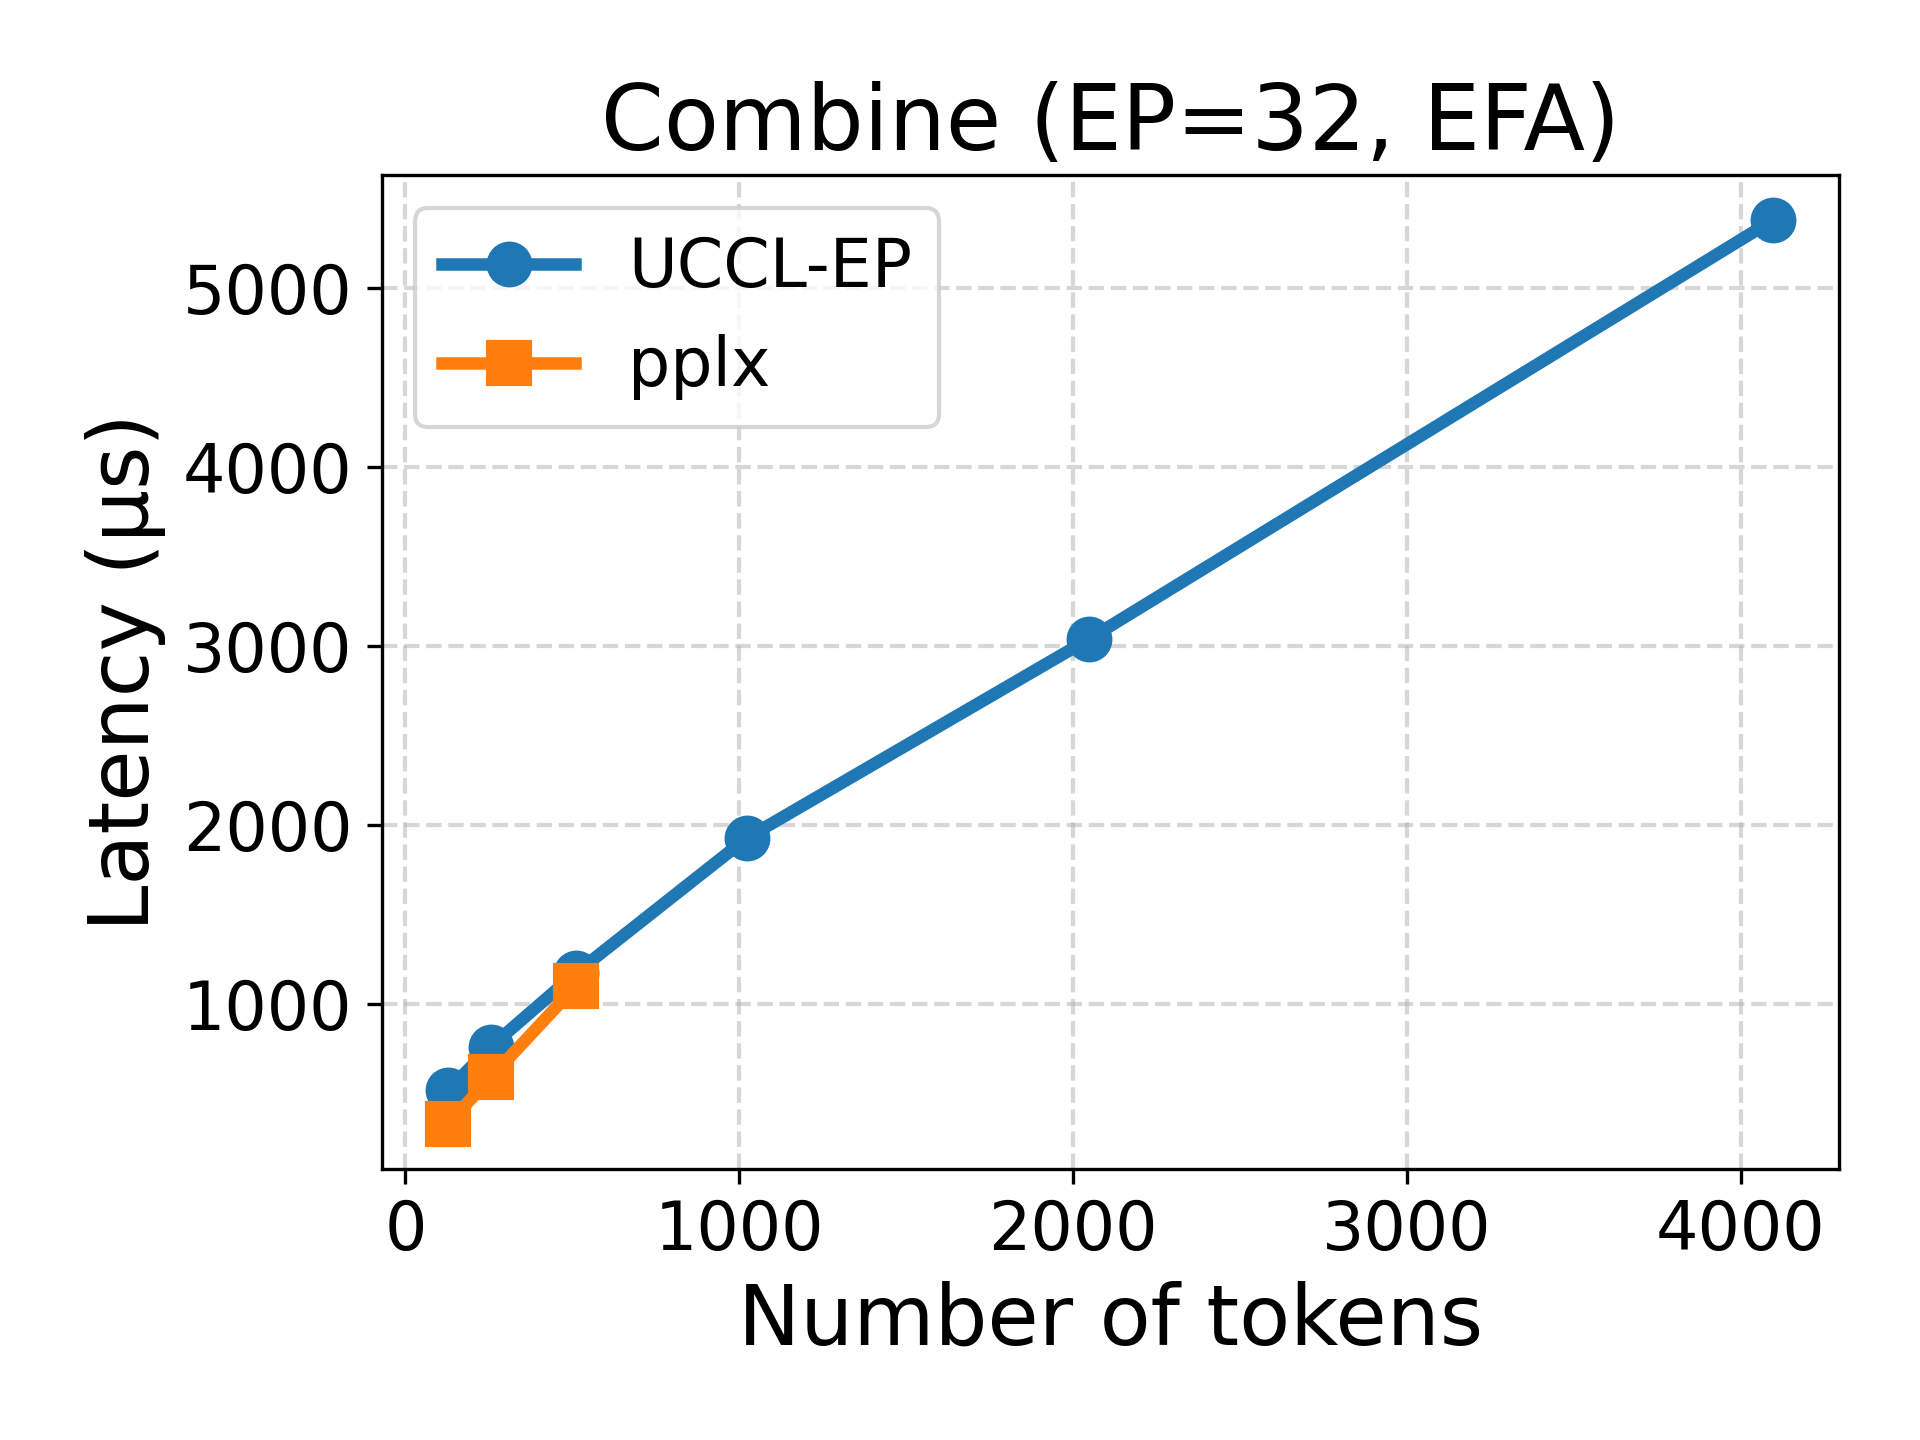
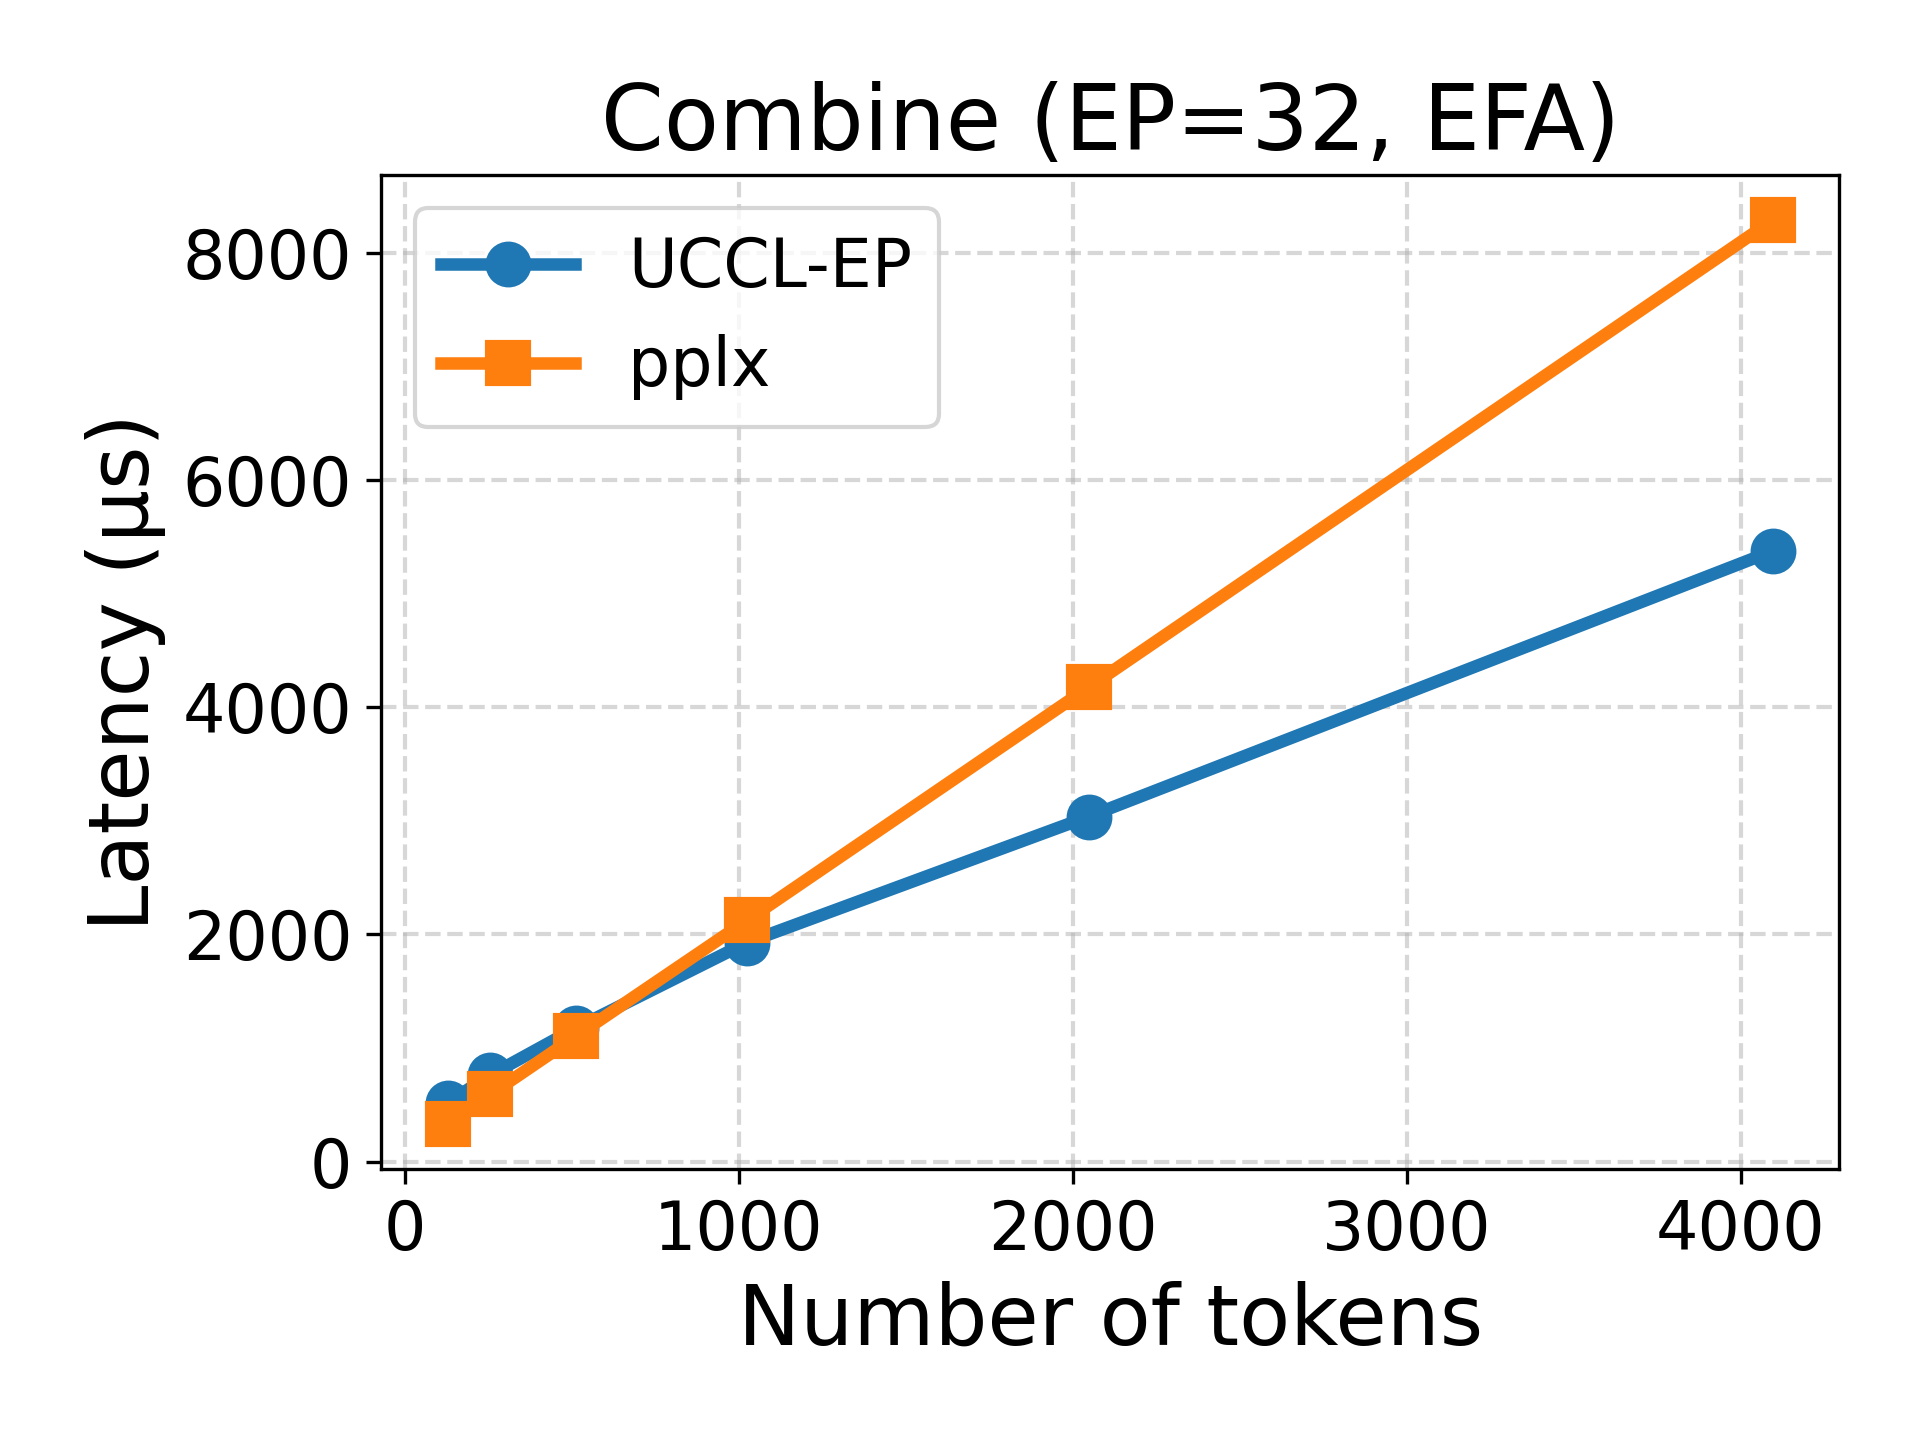
adding full pplx comparison

diff --git a/ep/figs/latency_plots_uccl_ep_vs_pplx.py b/ep/figs/latency_plots_uccl_ep_vs_pplx.py
@@ -11,8 +11,8 @@ tokens = [128, 256, 512, 1024, 2048, 4096]
 uccl_ep_dispatch = [200.25, 288.93, 430.19, 660.09, 1113.00, 2026.00]
 uccl_ep_combine  = [ 519.51, 763.02, 1176.00, 1929.00, 3039.00, 5377.00]
 
-pplx_dispatch = [228.6, 399.4, 744.9, None, None, None]
-pplx_combine  = [331.4, 591.3, 1103.4, None, None, None]
+pplx_dispatch = [228.6, 399.4, 744.9, 1483.0, 2539.1, 4638.2]
+pplx_combine  = [331.4, 591.3, 1103.4, 2124.0, 4177.4, 8290.1]
 
 
 def align_tokens(tokens_list, series):
